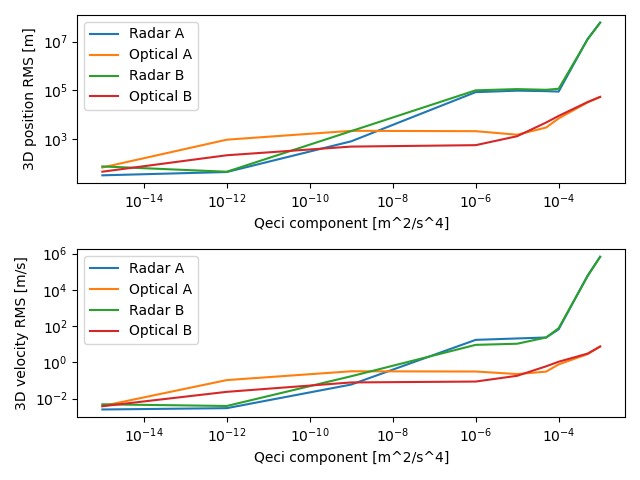
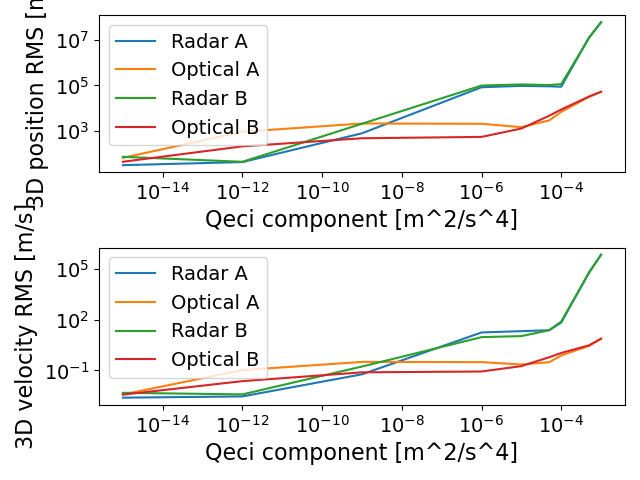
Hopefully, last fix

Changed region(s): [[0.0, 0.0, 0.9688, 0.9688], [0.8438, 0.375, 0.9375, 0.4375], [0.9062, 0.0625, 0.9375, 0.0938]]

diff --git a/question_2.py b/question_2.py
@@ -83,29 +83,15 @@ def analysis(truth_state, state, meas,
         # int state
         error_ric[i, :] = util.eci2ric(
             state[i, 0:3], state[i, 3:6], error[i, :3]).reshape(1, 3)
-        # state_ric_vel[i, :] = util.eci2ric(
-        #     state[i, 0:3], state[i, 3:6], state[i, 3:6]).reshape(1, 3)
-        # true state
-        # truth_state_ric_vel[i, :] = util.eci2ric(
-        #     truth_state[i, 0:3], truth_state[i, 3:6],
-        #     truth_state[i, 3:6]).reshape(1, 3)
-        # covariance
         cov = covars[i, :].reshape(6, 6)
         cov_pos_ric[i, :] = (util.eci2ric(
             state[i, 0:3], state[i, 3:6], cov[:3, :3])).reshape(1, 9)
-        # cov_vel_ric[i, :] = (util.eci2ric(
-        #     state[:, 0:3], state[:, 3:6], cov[3:6, 3:6])).reshape(1, 9)
 
     # sigma bound
     sigma_bound_pos = 3 * np.sqrt(cov_pos_ric)
-    # sigma_bound_vel = 3 * np.sqrt(np.sum(np.diag(cov_vel_ric)))
-    # residuals
-    # RMS_pos_ = np.sqrt(np.sum(resids[:, 0:3] ** 2) / len(time))
-    # RMS_vel_ = np.sqrt(np.sum(resids[:, 3:6] ** 2) / len(time))
-    # print(RMS_pos_)
-    # print(RMS_vel_)
-    RMS_pos = np.sqrt(np.sum(resid[:, 0:3]**2)/len(time))
-    RMS_vel = np.sqrt(np.sum(resid[:, 3:6]**2)/len(time))
+
+    RMS_pos = np.sqrt(np.sum(error[:, 0:3]**2)/len(time))
+    RMS_vel = np.sqrt(np.sum(error[:, 3:6]**2)/len(time))
 
     if plotting:
         plt.rc('axes', titlesize=16)  # fontsize of the axes title
@@ -238,31 +224,31 @@ def analysis(truth_state, state, meas,
             plt.savefig('plots/' + name + '_residuals.png')
 
         elif mtype == 'opt':
-
+            rad2arcsec = 3600. * 180. / np.pi
             fig, ((ax1, ax2, ax3, ax4), (ax5, ax6, ax7, ax8)) = plt.subplots(
                 2, 4, figsize=(16, 10))
             # R direction
-            ax1.scatter(time_rel[:31], resid[:31, 0])
+            ax1.scatter(time_rel[:31], resid[:31, 0] * rad2arcsec )
             ax1.set_ylabel('RA residuals (arcsec)')
             ax1.grid()
-            ax2.scatter(time_rel[31:62], resid[31:62, 0])
+            ax2.scatter(time_rel[31:62], resid[31:62, 0] * rad2arcsec)
             ax2.grid()
-            ax3.scatter(time_rel[62:93], resid[62:93, 0])
+            ax3.scatter(time_rel[62:93], resid[62:93, 0] * rad2arcsec)
             ax3.grid()
-            ax4.scatter(time_rel[93:], resid[93:, 0])
+            ax4.scatter(time_rel[93:], resid[93:, 0] * rad2arcsec)
             ax4.grid()
             # I direction
-            ax5.scatter(time_rel[:31], resid[:31, 1])
+            ax5.scatter(time_rel[:31], resid[:31, 1] * rad2arcsec)
             ax5.set_ylabel('DEC residuals (arcsec)')
             ax5.set_xlabel('Time [hours]')
             ax5.grid()
-            ax6.scatter(time_rel[31:62], resid[31:62, 1])
+            ax6.scatter(time_rel[31:62], resid[31:62, 1] * rad2arcsec)
             ax6.set_xlabel('Time [hours]')
             ax6.grid()
-            ax7.scatter(time_rel[62:93], resid[62:93, 1])
+            ax7.scatter(time_rel[62:93], resid[62:93, 1] * rad2arcsec)
             ax7.set_xlabel('Time [hours]')
             ax7.grid()
-            ax8.scatter(time_rel[93:], resid[93:, 1])
+            ax8.scatter(time_rel[93:], resid[93:, 1] * rad2arcsec)
             ax8.set_xlabel('Time [hours]')
             ax8.grid()
             plt.tight_layout()
@@ -349,6 +335,43 @@ rms_rad_pos_b = np.zeros((n, 1))
 rms_rad_vel_b = np.zeros((n, 1))
 rms_opt_pos_b = np.zeros((n, 1))
 rms_opt_vel_b = np.zeros((n, 1))
+
+
+def analysis2(truth_state, state, meas,
+             sensor, integ, filters, time):
+    rad2arcsec = 1 / ((1. / 3600.) * np.pi / 180.)
+    filter_output = util.ukf(state, meas, sensor,
+                             integ, filters, None)
+    # extract covars and state
+    covars = np.vstack(
+        [(filter_output[t])['covar'].reshape(1, 36) for t in time])
+    state = np.vstack(
+        [(filter_output[t])['state'].reshape(1, 6) for t in time])
+    dummy = len((filter_output[time[0]])['resids'])
+    resid = np.vstack(
+        [(filter_output[t])['resids'].reshape(1, dummy) for t in time])
+
+    error_ric = np.zeros((len(time), 3))
+
+    error = truth_state - state
+
+    cov_pos_ric = np.zeros((len(time), 9))
+
+    for i in range(len(time)):
+        # int state
+        error_ric[i, :] = util.eci2ric(
+            state[i, 0:3], state[i, 3:6], error[i, :3]).reshape(1, 3)
+        cov = covars[i, :].reshape(6, 6)
+        cov_pos_ric[i, :] = (util.eci2ric(
+            state[i, 0:3], state[i, 3:6], cov[:3, :3])).reshape(1, 9)
+
+    # sigma bound
+    sigma_bound_pos = 3 * np.sqrt(cov_pos_ric)
+
+    RMS_pos = np.sqrt(np.sum(error[:, 0:3] ** 2) / len(time))
+    RMS_vel = np.sqrt(np.sum(error[:, 3:6] ** 2) / len(time))
+
+    return RMS_pos, RMS_vel
 # for i in range(n):
 #     Qeci = Q[i] * np.diag([1., 1., 1.])
 #     Qric = 0 * np.diag([1., 1., 1.])
@@ -360,35 +383,35 @@ rms_opt_vel_b = np.zeros((n, 1))
 #         'gap_seconds': gap_seconds
 #     }
 #     # Radar A
-#     rms_rad_pos_a[i], rms_rad_vel_a[i] = analysis(
+#     rms_rad_pos_a[i], rms_rad_vel_a[i] = analysis2(
 #         state_truth_a, state_rad_a, meas_rad_a, sensor_params_rad_a,
-#         int_params, filter_params, t_rad_a, 'radar_a', 'rad', 0)
-#     rms_opt_pos_a[i], rms_opt_vel_a[i] = analysis(
+#         int_params, filter_params, t_rad_a)
+#     rms_opt_pos_a[i], rms_opt_vel_a[i] = analysis2(
 #         state_truth_a, state_opt_a, meas_opt_a, sensor_params_opt_a,
-#         int_params, filter_params, t_opt_a, 'optical_a', 'opt', 0)
-#     rms_rad_pos_b[i], rms_rad_vel_b[i] = analysis(
+#         int_params, filter_params, t_opt_a)
+#     rms_rad_pos_b[i], rms_rad_vel_b[i] = analysis2(
 #         state_truth_b, state_rad_b, meas_rad_b, sensor_params_rad_b,
-#         int_params, filter_params, t_rad_b, 'radar_b', 'rad', 0)
-#     rms_opt_pos_b[i], rms_opt_vel_b[i] = analysis(
+#         int_params, filter_params, t_rad_b)
+#     rms_opt_pos_b[i], rms_opt_vel_b[i] = analysis2(
 #         state_truth_b, state_opt_b, meas_opt_b, sensor_params_opt_b,
-#         int_params, filter_params, t_opt_b, 'optical_b', 'opt', 0)
+#         int_params, filter_params, t_opt_b)
 #
-#     fig, (ax1, ax2) = plt.subplots(2, 1)
-#     ax1.loglog(Q, rms_rad_pos_a)
-#     ax1.loglog(Q, rms_opt_pos_a)
-#     ax1.loglog(Q, rms_rad_pos_b)
-#     ax1.loglog(Q, rms_opt_pos_b)
-#     ax1.set_xlabel('Qeci component [m^2/s^4]')
-#     ax1.set_ylabel('3D position RMS [m]')
-#     ax1.legend(['Radar A', 'Optical A', 'Radar B', 'Optical B'])
+# fig, (ax1, ax2) = plt.subplots(2, 1)
+# ax1.loglog(Q, rms_rad_pos_a)
+# ax1.loglog(Q, rms_opt_pos_a)
+# ax1.loglog(Q, rms_rad_pos_b)
+# ax1.loglog(Q, rms_opt_pos_b)
+# ax1.set_xlabel('Qeci component [m^2/s^4]')
+# ax1.set_ylabel('3D position RMS [m]')
+# ax1.legend(['Radar A', 'Optical A', 'Radar B', 'Optical B'])
 #
-#     ax2.loglog(Q, rms_rad_vel_a)
-#     ax2.loglog(Q, rms_opt_vel_a)
-#     ax2.loglog(Q, rms_rad_vel_b)
-#     ax2.loglog(Q, rms_opt_vel_b)
-#     ax2.set_xlabel('Qeci component [m^2/s^4]')
-#     ax2.set_ylabel('3D velocity RMS [m/s]')
-#     ax2.legend(['Radar A', 'Optical A', 'Radar B', 'Optical B'])
+# ax2.loglog(Q, rms_rad_vel_a)
+# ax2.loglog(Q, rms_opt_vel_a)
+# ax2.loglog(Q, rms_rad_vel_b)
+# ax2.loglog(Q, rms_opt_vel_b)
+# ax2.set_xlabel('Qeci component [m^2/s^4]')
+# ax2.set_ylabel('3D velocity RMS [m/s]')
+# ax2.legend(['Radar A', 'Optical A', 'Radar B', 'Optical B'])
 #
-#     plt.tight_layout()
-#     plt.savefig('plots/state_noise_compensation.png')
+# plt.tight_layout()
+# plt.savefig('plots/state_noise_compensation.png')
